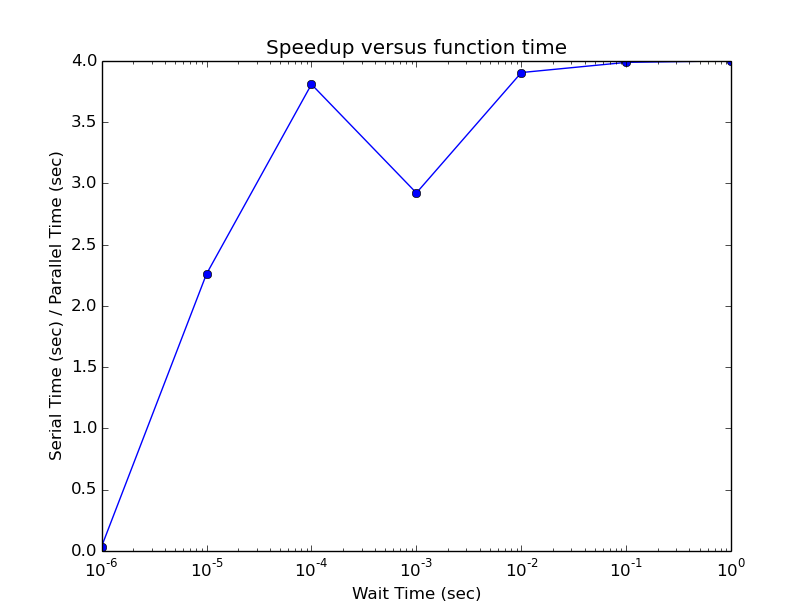
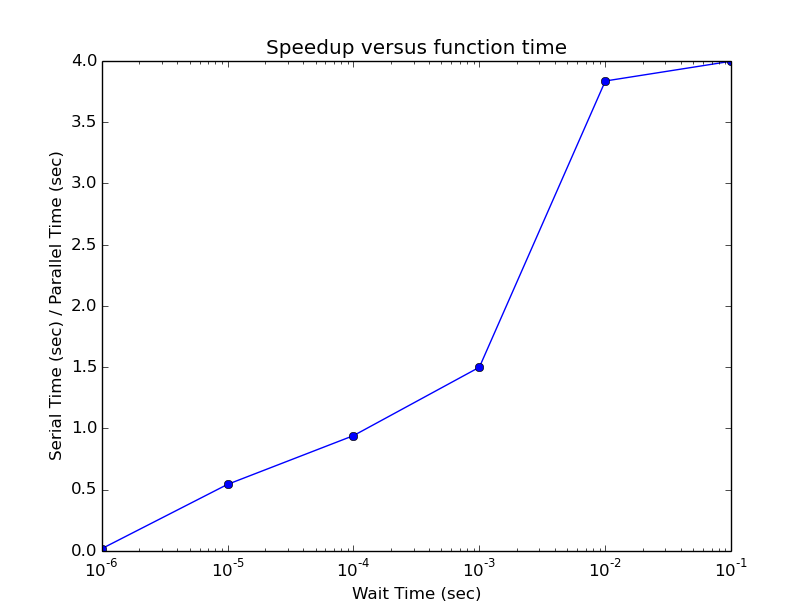
finish plotting and code in part6

diff --git a/HW0/P6/P6B.py b/HW0/P6/P6B.py
@@ -16,10 +16,9 @@ if __name__ == '__main__':
 
     # Use a variety of wait times
     ratio = []
-    wait_time = [10**0, 10**(-1), 10**(-2), 10**(-3), 10**(-4), 10**(-5), 10**(-6)]
+    wait_time = [10.0 ** ii for ii in range(-6, 0)]
 
     for t in wait_time:
-        
         # Compute jobs serially
         start_serial = time.time()
         for i in range(N):
@@ -28,13 +27,13 @@ if __name__ == '__main__':
 
         # Compute jobs in parallel
         start_parallel = time.time()
-        pool.map(burnTime, [t]*N)
+        pool.map(burnTime, [t for i in range(N)])
         end_parallel = time.time()
 
         # Compute the elapsed time for each
         serialTime = end_serial-start_serial
         parallelTime = end_parallel-start_parallel
-
+        
         # Compute the ratio of these times
         ratio.append(serialTime/parallelTime)
 
